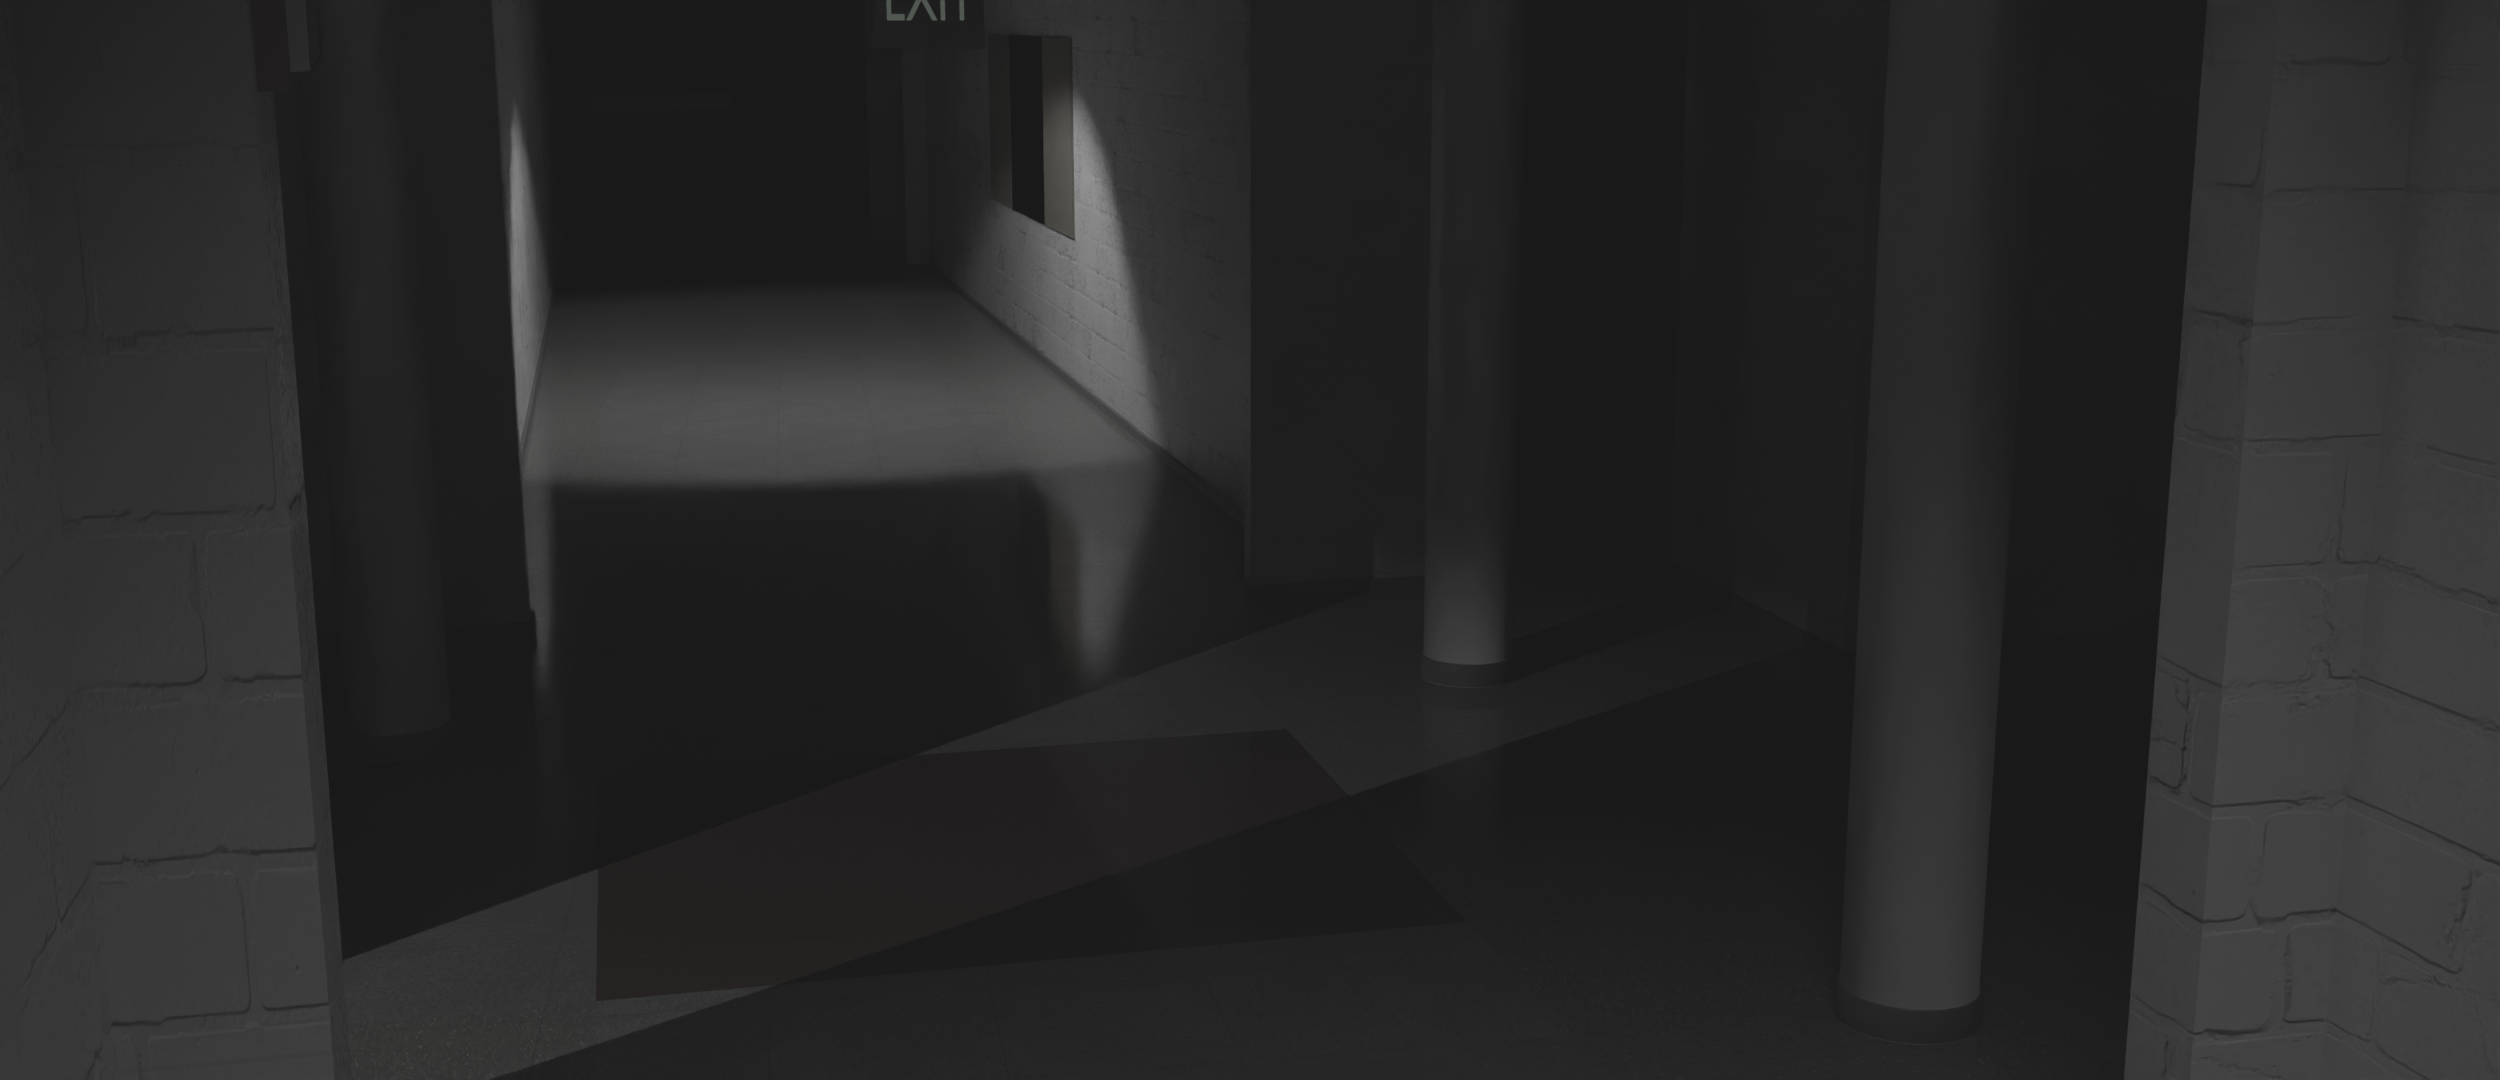
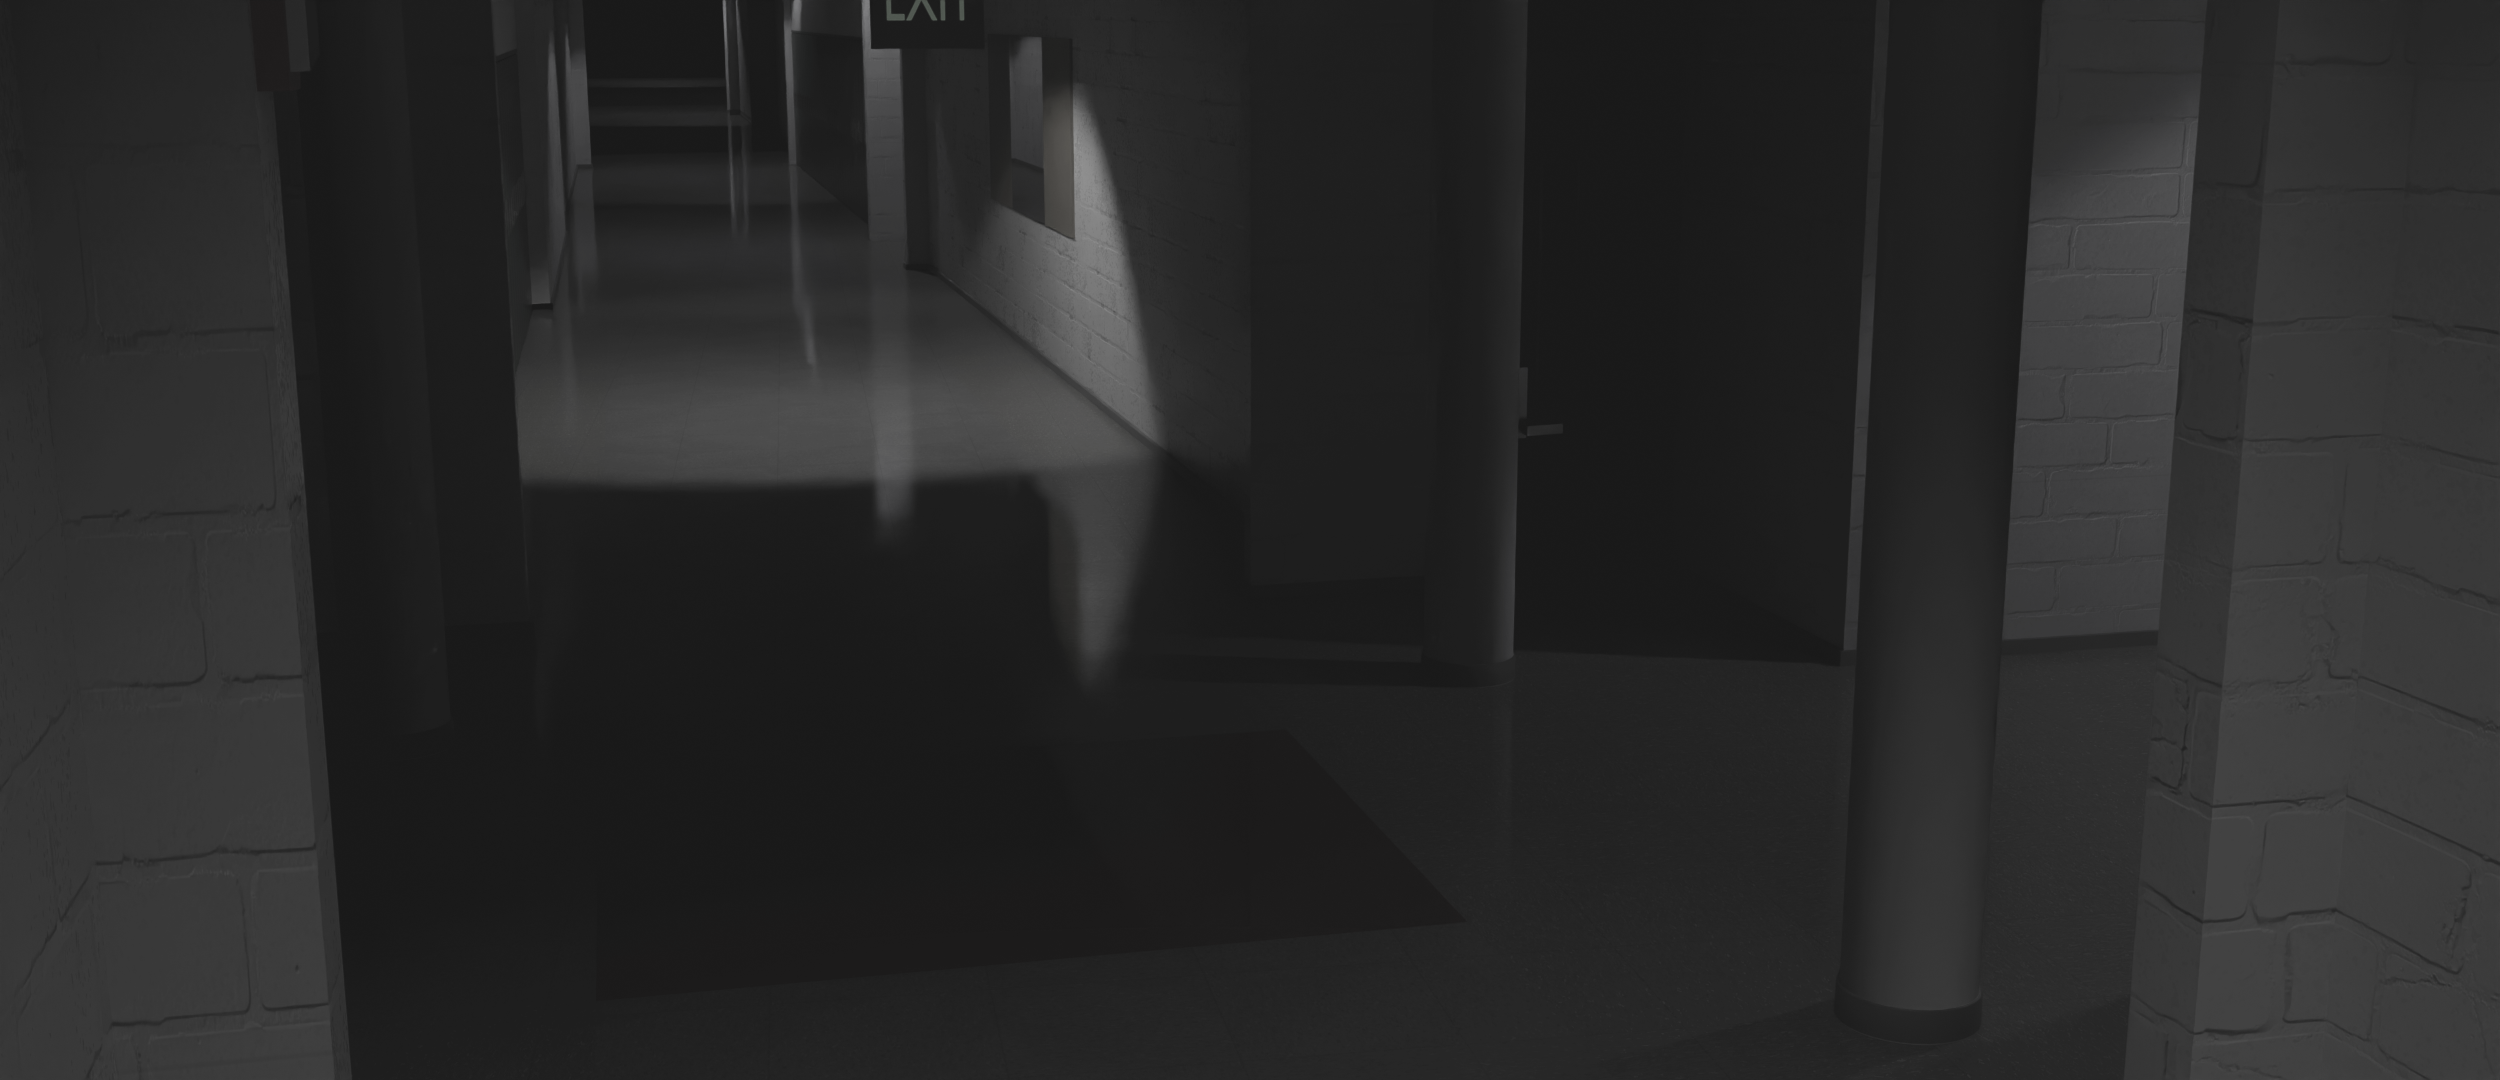
Add flicker to a light in the 200-600 intersection camera.

diff --git a/gameplay/systems.py b/gameplay/systems.py
@@ -34,6 +34,28 @@ class Camera:
         self.glitch_timer = 0
         self.MAX_GLITCH_TIMER = self.glitch_sound.get_length() * 60
         self.glitch = False
+        self.flicker_counter = 1
+        if self.name == "200-600 Intersection":
+            self.flicker = pygame.image.load('resources/misc/intersection_flicker.png').convert_alpha()
+        else:
+            self.flicker = None
+
+    def get_flicker(self):
+        if self.flicker_counter > 0:
+            if random.randint(self.flicker_counter, 51) >= 50:
+                self.flicker_counter = -1
+                return 'dark'
+
+            else:
+                self.flicker_counter += 1
+                return 'light'
+
+        elif self.flicker_counter < 0:
+            if random.randint(-51, self.flicker_counter) <= -50:
+                self.flicker_counter = 1
+                return 'light'
+            else:
+                return 'dark'
 
     def start(self):
         self.glitch = False
@@ -83,7 +105,12 @@ class Camera:
                 self.glitch_timer = 0
                 self.glitch = False
         if self.active:
+            cache = self.background.copy()
+            if self.flicker is not None:
+                if self.get_flicker() == 'dark':
+                    self.background.blit(self.flicker, (0, 0))
             surface.blit(self.background, (offset, 0))
+            self.background = cache
             if self.glitch:
                 black = pygame.Surface(surface.get_size())
                 black.fill('black')
